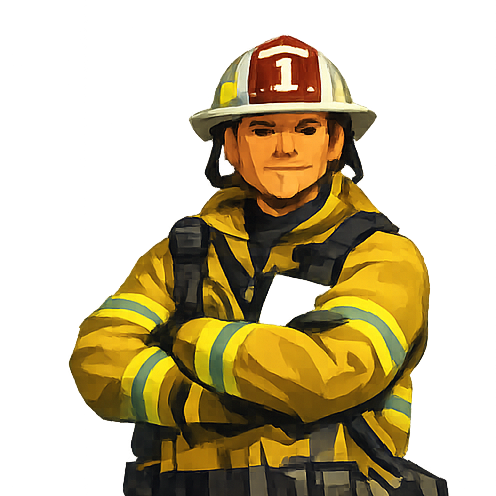
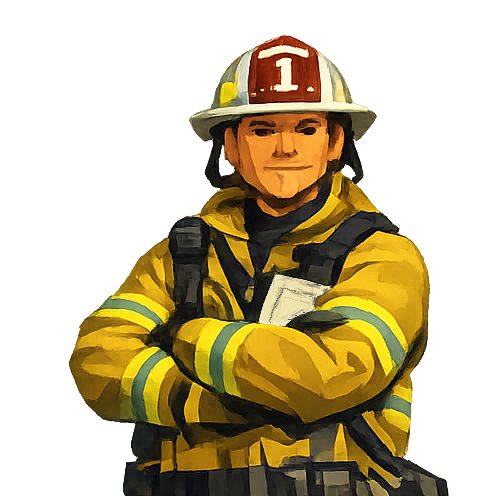
game speed and incidence response tweaks

Changed region(s): [[0.5141, 0.5444, 0.6653, 0.6653]]

diff --git a/src/systems/fire/rendering/fireFxRuntime.ts b/src/systems/fire/rendering/fireFxRuntime.ts
@@ -68,6 +68,7 @@ import {
   updateFrontCorridorSlotActivation
 } from "./fireRenderAnalysisState.js";
 import {
+  accumulateSmokeEmission,
   clamp,
   fract,
   getVisualWindResponse,
@@ -917,6 +918,7 @@ export const createThreeTestFireFx = (
   let smokeAnimationTimeMs = 0;
   const analysisState = createInitialFireRenderAnalysisState();
   let tileSmokeSpawnAccum = new Float32Array(0);
+  let clusterSmokeSpawnAccum = new Float32Array(0);
   let smokeSpawnCursor = 0;
   let smokeSpawnSequence = 0;
   const smokeParticleActive = new Uint8Array(SMOKE_MAX_INSTANCES);
@@ -1003,6 +1005,7 @@ export const createThreeTestFireFx = (
     resetFireRenderAnalysisVisualState(analysisState);
     audioClusterSnapshots.length = 0;
     tileSmokeSpawnAccum.fill(0);
+    clusterSmokeSpawnAccum.fill(0);
     visualsCleared = true;
   };
 
@@ -1073,6 +1076,10 @@ export const createThreeTestFireFx = (
     ensureFireRenderAnalysisState(analysisState, cols, rows);
     if (tileSmokeSpawnAccum.length !== count) {
       tileSmokeSpawnAccum = new Float32Array(count);
+    }
+    const clusterAnchorCount = count * CLUSTER_PLUME_MAX_PER_CLUSTER;
+    if (clusterSmokeSpawnAccum.length !== clusterAnchorCount) {
+      clusterSmokeSpawnAccum = new Float32Array(clusterAnchorCount);
     }
   };
 
@@ -1951,7 +1958,7 @@ export const createThreeTestFireFx = (
           terrainMaxZ
         );
         const clusterSmokeSourceY = heightAtFireWorldPosition(anchorX, anchorZ, cluster.baseY) + clusterSmokeLift;
-        const spawnCount = clamp(
+        const emissionRate = clamp(
           Math.round(
             (1.4 + cluster.intensity * 4.2 + cluster.tileCount * 0.06 + clusterFront01 * 2.2) *
               effectiveSmokeBudgetScale *
@@ -1960,6 +1967,15 @@ export const createThreeTestFireFx = (
           1,
           8
         );
+        const accumulatorIdx = cluster.sourceIdx * CLUSTER_PLUME_MAX_PER_CLUSTER + anchor;
+        const emission = accumulateSmokeEmission(
+          clusterSmokeSpawnAccum[accumulatorIdx] ?? 0,
+          emissionRate,
+          smokeDeltaSeconds,
+          Math.min(8, smokeSpawnFrameCap - smokeSpawnsThisFrame)
+        );
+        clusterSmokeSpawnAccum[accumulatorIdx] = emission.carry;
+        const spawnCount = emission.spawnCount;
         for (let spawn = 0; spawn < spawnCount && smokeSpawnsThisFrame < smokeSpawnFrameCap; spawn += 1) {
           const r1 = hash1(a1 * 17.0 + spawn * 1.31 + smokeTimeSeconds * 0.19);
           const r2 = hash1(a2 * 23.0 + spawn * 2.17 + 7.0);
@@ -3282,11 +3298,14 @@ export const createThreeTestFireFx = (
             smokeDensityScale *
             frontSmokeScale *
             SMOKE_EMISSION_DENSITY_SCALE;
-          let spawnCarry = (tileSmokeSpawnAccum[idx] ?? 0) + emissionRate * smokeDeltaSeconds;
-          const spawnCount = Math.min(9, Math.floor(spawnCarry));
-          spawnCarry -= spawnCount;
-          tileSmokeSpawnAccum[idx] = spawnCarry;
-          const spawnLimit = Math.min(spawnCount, smokeSpawnFrameCap - smokeSpawnsThisFrame);
+          const emission = accumulateSmokeEmission(
+            tileSmokeSpawnAccum[idx] ?? 0,
+            emissionRate,
+            smokeDeltaSeconds,
+            9
+          );
+          tileSmokeSpawnAccum[idx] = emission.carry;
+          const spawnLimit = Math.min(emission.spawnCount, smokeSpawnFrameCap - smokeSpawnsThisFrame);
           const plumeRadius = sampleFootprint * (0.14 + smokeDrive * 0.58);
           const baseSize = tileSpan * (0.9 + smokeDrive * 1.28);
           for (let spawn = 0; spawn < spawnLimit; spawn += 1) {

diff --git a/src/sim/index.ts b/src/sim/index.ts
@@ -94,8 +94,7 @@ import { applyFireActivityMetrics } from "../systems/fire/sim/fireActivityState.
 import {
   resetFireFrontLineage,
   stepFireDetection,
-  stepWatchTowerConstruction,
-  type FireDetectionStepResult
+  stepWatchTowerConstruction
 } from "../systems/fire/sim/fireDetection.js";
 import type { FireDetectionReport } from "../core/types.js";
 import { stepEvacuations } from "../systems/evacuation/sim/evacuationRuntime.js";
@@ -1130,6 +1129,21 @@ export function stepSim(
 
   let activeFires = state.lastActiveFires;
   let fireActivityState = state.fireActivityState;
+  let detectedIncidentThisStep = false;
+  const pollFireDetection = (detectionDayDelta: number): boolean => {
+    if (!hasFireActivity(state)) {
+      return false;
+    }
+    const detection = stepFireDetection(state, detectionDayDelta);
+    detection.notificationReports.forEach(emitFireFrontNotification);
+    const primaryAlertReport = detection.alertReports[0] ?? detection.alertReport;
+    if (!primaryAlertReport) {
+      return false;
+    }
+    handleDetectedFireIncident(state, primaryAlertReport, previousSpeedIndex, previousSliderValue);
+    detectedIncidentThisStep = true;
+    return true;
+  };
   state.firePerfSubsteps = 0;
   state.firePerfSimulatedDays = 0;
   state.firePerfDeferredDays = 0;
@@ -1201,6 +1215,15 @@ export function stepSim(
       fireSubsteps += 1;
       fireDaysSimulated += simDayDelta;
       state.fireSimAccumulator = Math.max(0, state.fireSimAccumulator - simDelta);
+      state.lastActiveFires = activeFires;
+      if (pollFireDetection(simDayDelta)) {
+        state.fireSimAccumulator = 0;
+        remaining = 0;
+        break;
+      }
+    }
+    if (!detectedIncidentThisStep && hasFireActivity(state) && pollFireDetection(dayDelta)) {
+      state.fireSimAccumulator = 0;
     }
     state.firePerfSubsteps = fireSubsteps;
     state.firePerfSimulatedDays = fireDaysSimulated;
@@ -1218,25 +1241,14 @@ export function stepSim(
     applyFireActivityMetrics(state, 0);
   }
   state.lastActiveFires = activeFires;
-  let fireDetection: FireDetectionStepResult = {
-    alertReport: null,
-    alertReports: [],
-    notificationReports: [],
-    activeReportCount: 0
-  };
-  if (hasFireActivity(state)) {
-    fireDetection = stepFireDetection(state, dayDelta);
-  } else {
+  if (!hasFireActivity(state)) {
     resetFireFrontLineage(state);
   }
-  fireDetection.notificationReports.forEach(emitFireFrontNotification);
-  const primaryAlertReport = fireDetection.alertReports[0] ?? fireDetection.alertReport;
-  if (primaryAlertReport) {
-    if (handleDetectedFireIncident(state, primaryAlertReport, previousSpeedIndex, previousSliderValue)) {
-      stepParticles(state, effects, delta);
-      return;
-    }
-  } else if (state.simTimeMode === "incident" && state.fireActivityState === "idle") {
+  if (detectedIncidentThisStep && state.paused) {
+    stepParticles(state, effects, delta);
+    return;
+  }
+  if (!detectedIncidentThisStep && state.simTimeMode === "incident" && state.fireActivityState === "idle") {
     exitIncidentMode(state);
   }
 

diff --git a/src/systems/units/controllers/rosterController.ts b/src/systems/units/controllers/rosterController.ts
@@ -12,7 +12,12 @@ import { FIRST_NAMES, LAST_NAMES, TRUCK_PREFIX } from "../constants/runtimeConst
 import { clamp } from "../utils/unitMath.js";
 import { getRosterFirefighter, getRosterTruck, getRosterUnit } from "../utils/unitLookup.js";
 import { buildUnitDerivedStats, createTraining } from "../utils/unitStats.js";
-import { assignRosterTruckToMostEmptySquad, ensureDefaultSquads } from "./squadController.js";
+import {
+  assignRosterTruckToMostEmptySquad,
+  assignRosterTruckToSquad,
+  ensureDefaultSquads,
+  getSquadById
+} from "./squadController.js";
 
 const unassignRosterFirefighter = (state: WorldState, firefighter: RosterUnit): void => {
   if (firefighter.assignedTruckId === null) {
@@ -106,11 +111,13 @@ export function seedStartingRoster(state: WorldState, rng: RNG, responseTeamCoun
     1,
     Number.isFinite(responseTeamCount) ? Math.floor(responseTeamCount) : 1
   );
+  ensureDefaultSquads(state);
+  const startingSquadId = state.squads[0]?.id ?? null;
   for (let teamIndex = 0; teamIndex < normalizedTeamCount; teamIndex += 1) {
     for (let crewIndex = 0; crewIndex < STARTING_RESPONSE_TEAM_CREW_COUNT; crewIndex += 1) {
       recruitUnit(state, rng, "firefighter", true);
     }
-    recruitUnit(state, rng, "truck", true);
+    recruitUnit(state, rng, "truck", true, startingSquadId);
   }
   const trucks = state.roster.filter((unit) => unit.kind === "truck");
   const firefighters = state.roster.filter((unit) => unit.kind === "firefighter");
@@ -132,7 +139,13 @@ export function seedStartingRoster(state: WorldState, rng: RNG, responseTeamCoun
   ensureDefaultSquads(state);
 }
 
-export function recruitUnit(state: WorldState, rng: RNG, kind: UnitKind, free = false): boolean {
+export function recruitUnit(
+  state: WorldState,
+  rng: RNG,
+  kind: UnitKind,
+  free = false,
+  preferredSquadId: number | null = null
+): boolean {
   if (state.phase !== "maintenance" && !free) {
     setStatus(state, "Recruitment is only available during winter.");
     return false;
@@ -159,7 +172,10 @@ export function recruitUnit(state: WorldState, rng: RNG, kind: UnitKind, free = 
   let assignmentLabel = "";
   if (entry.kind === "truck") {
     ensureDefaultSquads(state);
-    const squad = assignRosterTruckToMostEmptySquad(state, entry.id);
+    const preferredSquad = getSquadById(state, preferredSquadId);
+    const squad = preferredSquad && assignRosterTruckToSquad(state, entry.id, preferredSquad.id)
+      ? preferredSquad
+      : assignRosterTruckToMostEmptySquad(state, entry.id);
     assignmentLabel = squad ? ` Assigned to ${squad.name}.` : " No squad vehicle slots are open.";
   } else {
     const truck = assignRosterFirefighterToMostEmptyTruck(state, entry);

diff --git a/src/systems/fire/rendering/fireRenderMath.ts b/src/systems/fire/rendering/fireRenderMath.ts
@@ -24,6 +24,23 @@ export const smoothApproach = (
   return current + (target - current) * k;
 };
 
+export const accumulateSmokeEmission = (
+  carry: number,
+  emissionsPerSecond: number,
+  deltaSeconds: number,
+  maxSpawns: number
+): { carry: number; spawnCount: number } => {
+  const safeCarry = Number.isFinite(carry) ? clamp(carry, 0, 0.999999) : 0;
+  const accumulated =
+    safeCarry + Math.max(0, Number.isFinite(emissionsPerSecond) ? emissionsPerSecond : 0) *
+      Math.max(0, Number.isFinite(deltaSeconds) ? deltaSeconds : 0);
+  const availableSpawns = Math.floor(accumulated + 1e-9);
+  return {
+    carry: Math.max(0, accumulated - availableSpawns),
+    spawnCount: Math.min(Math.max(0, Math.floor(maxSpawns)), availableSpawns)
+  };
+};
+
 export const normalizeXZ = (x: number, z: number): { x: number; z: number } => {
   const length = Math.hypot(x, z);
   if (length <= 1e-5) {

diff --git a/src/systems/fire/sim/fireWeather.ts b/src/systems/fire/sim/fireWeather.ts
@@ -168,8 +168,11 @@ export const getBurnoutFactorForRisk = (climateRisk: number): number =>
     : 0;
 
 export const getAdaptiveFireSubstepMax = (fireActivityState: FireActivityState, climateRisk: number): number => {
+  if (climateRisk >= 0.4) {
+    return 0.125;
+  }
   if (fireActivityState === "burning") {
-    return climateRisk >= 0.4 ? 0.125 : 0.25;
+    return 0.25;
   }
   return 0.5;
 };

diff --git a/docs/GAME_DESIGN_REFERENCE.md b/docs/GAME_DESIGN_REFERENCE.md
@@ -193,7 +193,7 @@ Command Roster
 - The roster includes a male/female portrait toggle; random callsigns use first-name pools matching the selected toggle.
 - Chief modifiers are shown for budget, speed, power, containment, firebreak cost, and approval retention.
 - Campaign difficulty is a clearly selectable, remembered New Game setting with four data-driven levels: Ember, Blaze (default), Firestorm, and Inferno. The selected Chief portrait uses a dedicated procedural GPU flame field and CPU fallback derived from the title screen's IQ noise/fBm approach, behind transparent Chief art and clipped to the rounded picture frame. A uniform near-black backdrop uses the title flame's red-to-white heat palette. Ember disables the flame field and presents a clearly readable field of slow, long-lived sparks over a faint lower glow. Blaze, Firestorm, and Inferno use 4/6/8 detailed emitters plus an increasingly strong continuous wall layer, occupying approximately 50%/75%/100% of frame height; Inferno's full wall prevents the emitters from reading as separate jets. Every profile prewarms its spark population so changing difficulty does not produce a temporarily empty portrait, while higher levels progressively increase spark density and rise speed. The title screen retains its original glyph-masked renderer unchanged. This presentation cue does not add gameplay effects: difficulty changes only the initial budget and starting response-team count; fire, weather, suppression, later-year economy, scoring, and unit performance remain unchanged.
-- The normal starting baseline is two response teams, and each complete team contains one truck plus two firefighters. Difficulty produces Ember 4 teams, Blaze 3, Firestorm 2, and Inferno 1, with one complete team retained as the valid-campaign minimum.
+- The normal starting baseline is two response teams, and each complete team contains one truck plus two firefighters. Difficulty produces Ember 4 teams, Blaze 3, Firestorm 2, and Inferno 1, with one complete team retained as the valid-campaign minimum. All difficulty-granted starting trucks belong to the first HQ squad so the complete opening roster can be dispatched as one command group; the other HQ squad slots begin empty.
 - Starting budget resolves from the normal base through the difficulty multiplier first (125%, 100%, 85%, or 70%), then through the existing selected-Chief budget modifier without duplicating or changing Chief rules.
 - Unit economy + stats (recruit costs, training cost/cap/gains, unit speed/power/radius, truck capacity/board radius, tether distance, formation spacing, movement cost/slope factors, unit loss fire threshold).
 - Firebreak cost per tile.
@@ -231,7 +231,7 @@ Fire
 Other
 - Career/time pacing (career years, days/sec, phase durations, and annual growth-event timing).
 - Time controls support persisted preset-button mode and an experimental strategic-time slider spanning 0x-20x in 0.25x steps. Incident mode always uses the dedicated slow incident presets, even when strategic time uses the slider; entering an incident preserves the strategic slider value and leaving restores it. `Advance to Next Event` temporarily forces strategic time to 20x before restoring the prior value.
-- High-speed strategic time must still detect fire events immediately: when calendar advancement seeds or discovers a detected fire, the sim stops Advance to Next Event, preserves strategic controls for restoration, and enters dedicated slow incident time before any large high-speed fire step can burn past the opening response window. `Pause on Fire` controls only whether that incident transition also pauses; disabling it keeps incident time running instead of retaining strategic speed. Strategic fast time is capped at an effective 20x and may be further limited near fire-eligible weather or active fire work by the fire kernel's idle adaptive window. Fire catch-up work is additionally bounded by a per-frame substep budget and may carry deferred fire days across frames so high-speed fire seasons stay responsive instead of processing every backlog substep in one frame. Fire simulation remains tied to simulation speed, but fire FX should interpolate and smooth between previous/current fire snapshots so the visible front does not snap only on fire-kernel ticks. Vehicle movement follows the effective game-speed movement step even when active-fire work applies a lower fire/runtime step, uses the same previous/current visual interpolation contract, and perf telemetry should distinguish requested, effective, movement, and actually applied speed when lower fire/runtime caps are active. The 3D runtime should only hold accelerated simulation for immediate terrain geometry, debug, or structure sync; vegetation, surface-color, and fire-visual batches can defer without stopping movement. Spring settlement growth should replay precomputed road paths and refresh road/structure visuals without forcing a full base terrain mesh rebuild. Fire, annual report, and rain pause behavior can be toggled independently from event source toggles. Run-only diagnostics may temporarily hold simulation and camera motion to capture median GPU sensitivity for terrain, vegetation, structures, fire FX, water, and shadows; this capture is non-authoritative and must restore presentation state without changing gameplay or rendering defaults.
+- High-speed strategic time must still detect fire events immediately: when calendar advancement seeds or discovers a detected fire, the sim stops Advance to Next Event, preserves strategic controls for restoration, and enters dedicated slow incident time before any large high-speed fire step can burn past the opening response window. During fire-eligible high-risk weather, idle and active fire work use the same bounded internal detection cadence; detection is polled after each fire substep, and the first alert truncates the accelerated batch and discards its remaining strategic fire backlog so resuming cannot replay pre-alert fast-time spread. `Pause on Fire` controls only whether that incident transition also pauses; disabling it keeps incident time running instead of retaining strategic speed. Strategic fast time is capped at an effective 20x and may be further limited near fire-eligible weather or active fire work by the fire kernel's idle adaptive window. Fire catch-up work is additionally bounded by a per-frame substep budget and may carry deferred fire days across frames only while no incident alert interrupts the batch, so high-speed fire seasons stay responsive instead of processing every backlog substep in one frame. Fire simulation remains tied to simulation speed, but fire FX should interpolate and smooth between previous/current fire snapshots so the visible front does not snap only on fire-kernel ticks. Smoke particle movement, ageing, and both tile and cluster-plume emission accumulate from the same game-speed-scaled visual time, so changing speed changes plume evolution without causing slow-time density buildup from real-time emission. Vehicle movement follows the effective game-speed movement step even when active-fire work applies a lower fire/runtime step, uses the same previous/current visual interpolation contract, and perf telemetry should distinguish requested, effective, movement, and actually applied speed when lower fire/runtime caps are active. The 3D runtime should only hold accelerated simulation for immediate terrain geometry, debug, or structure sync; vegetation, surface-color, and fire-visual batches can defer without stopping movement. Spring settlement growth should replay precomputed road paths and refresh road/structure visuals without forcing a full base terrain mesh rebuild. Fire, annual report, and rain pause behavior can be toggled independently from event source toggles. Run-only diagnostics may temporarily hold simulation and camera motion to capture median GPU sensitivity for terrain, vegetation, structures, fire FX, water, and shadows; this capture is non-authoritative and must restore presentation state without changing gameplay or rendering defaults.
 - Economy baselines (base budget, approval min, hectares per tile, initial approval).
 - Progression toggles (available upgrades list).
 - Debug/perf toggles (simPerf, renderTrees/effects), unlimited money.

diff --git a/work_queue.md b/work_queue.md
@@ -1,3 +1,44 @@
+TSK-0213: Stop accelerated fire work at the detection boundary
+
+Type: bug
+
+Why: At 20x, fire detection ran only after an entire strategic fire batch. A detected incident could pause with hundreds of burned tiles and an already-burning HQ, while the early return deferred the HQ-loss check until the first resumed incident tick.
+
+Done when:
+- [x] Fire-eligible high-risk work uses bounded internal slices before a newly seeded or hidden fire can consume the full strategic batch.
+- [x] Detection runs after every fire substep and the first alert stops remaining accelerated fire work.
+- [x] Strategic fire backlog is cleared at incident entry so unpausing cannot replay pre-alert fast-time spread.
+- [x] The 20x season-entry regression pauses with the HQ safe, no burned tiles, and no deferred fire days; TypeScript, build, fire, and queue validation pass.
+
+Touchpoints: `src/sim/index.ts`, `src/systems/fire/sim/fireWeather.ts`, `scripts/fire-regression.mjs`, design/deprecation/queue records
+
+Constraints: preserve fire detection confidence and delay rules, incident-speed resolution, Pause on Fire preference semantics, fire equations, save data, and simulation-to-domain dependency direction.
+
+Notes: Before the fix, the deterministic high-speed fixture paused at 162 active fires and 208 burned tiles. Substep-boundary detection now pauses the same fixture at 9 active fires, zero burned tiles, a safe HQ, and zero deferred fire backlog. Evidence is automated and source-based; the supplied screenshot confirms the original paused-after-damage symptom but not event timing.
+
+Status: done
+
+TSK-0212: Scale cluster smoke emission with game speed
+
+Type: bug
+
+Why: Cluster plumes emitted a fixed smoke batch on every render rebuild while existing particles moved and aged using game-speed-scaled time, causing smoke to become extremely dense during slow incidents.
+
+Done when:
+- [x] Cluster-plume anchors accumulate particles from the same scaled smoke delta used for movement and ageing.
+- [x] Fractional carry makes total emission independent of render rebuild cadence while adaptive per-frame caps remain intact.
+- [x] Tile smoke uses the shared rate accumulator without changing its existing scaled-time contract.
+- [x] TypeScript, build, renderer regression, and queue validation pass.
+- [ ] A supplied recording or supported Browser session confirms comparable plume density across speed changes in live motion.
+
+Touchpoints: `src/systems/fire/rendering/fireFxRuntime.ts`, `src/systems/fire/rendering/fireRenderMath.ts`, `scripts/render-performance-regression.mjs`, design/queue records
+
+Constraints: preserve fire simulation, smoke motion/lifetimes, adaptive render caps, draw-call structure, save data, and simulation-to-render dependency direction.
+
+Notes: Source inspection found tile emitters already used scaled smoke time while cluster emitters spawned per rebuild. Automated coverage compares equal scaled durations at different rebuild cadences and verifies proportional slow-speed output. The supplied screenshot is static evidence of the density symptom; live timing validation remains capture-based because the current VS Code surface cannot inspect localhost.
+
+Status: done
+
 TSK-0211: Add four-level campaign difficulty
 
 Type: feature
@@ -7,6 +48,7 @@ Why: New campaigns always used one fixed starting budget and one fixed response 
 Done when:
 - [x] New Game exposes Ember, Blaze, Firestorm, and Inferno from one data-driven catalogue, with Blaze as the legacy/default fallback and the last valid choice remembered.
 - [x] Difficulty derives the initial budget before the unchanged Chief budget modifier and produces 4, 3, 2, or 1 complete response teams from the accepted two-team baseline.
+- [x] All difficulty-granted starting trucks are assigned to the first HQ squad, while the remaining squad slots start empty and later recruitment retains its existing assignment policy.
 - [x] Campaign configuration and state retain the selected difficulty, while missing or invalid persisted values sanitize to Blaze.
 - [x] The selected Chief portrait uses a dedicated procedural GPU field and CPU fallback derived from the title noise/fBm approach on a fixed near-black canvas: Ember is a prewarmed, clearly visible field of slow sparks over a faint glow, while 4/6/8 detailed emitters blend into progressively stronger 50%/75%/100% flame walls for Blaze through Inferno. Every profile prewarms its sparks, with density and rise speed increasing by difficulty without changing the title screen.
 - [x] TypeScript/build, focused campaign-difficulty persistence/resource coverage, unit composition/assignment coverage, and queue validation pass.
@@ -16,7 +58,7 @@ Touchpoints: `src/systems/campaign/`, New Game configuration UI/persistence, `sr
 
 Constraints: difficulty affects only starting budget and complete starting response teams; preserve unlimited-money behavior, existing Chief modifiers, terrain share codes, later-year economy, scoring, fire, weather, suppression, and unit performance.
 
-Notes: Implemented source-first in the current VS Code surface using supplied New Game screenshots, concept art, shader reference, and the annotated pane capture as static evidence. Canvas scaling exposed rectangular bounds, UV/noise scaling distorted the field, and raw multi-glyph rendering exposed vertical nearest-band seams plus the reference shader's early horizontal heat cutoff. The final portrait path isolates a dedicated procedural renderer: Ember has no flame field, while higher profiles soft-union overlapping emitters with an increasing continuous wall layer and use the title shader's heat-color curve. Automated evidence covers definition order, defaults, persistence migration, budget ordering, team-count clamping, deterministic complete-team seeding, crew assignment, squad ownership, exact glow/wall/emitter/height/heat/spark profiles, fixed CPU dimensions, occupied-height bands, Inferno horizontal coverage, and monotonic color/alpha/activity metrics. Live motion and final appearance still require refreshed captures because this surface cannot inspect localhost.
+Notes: Implemented source-first in the current VS Code surface using supplied New Game screenshots, concept art, shader reference, and the annotated pane capture as static evidence. Canvas scaling exposed rectangular bounds, UV/noise scaling distorted the field, and raw multi-glyph rendering exposed vertical nearest-band seams plus the reference shader's early horizontal heat cutoff. The final portrait path isolates a dedicated procedural renderer: Ember has no flame field, while higher profiles soft-union overlapping emitters with an increasing continuous wall layer and use the title shader's heat-color curve. Campaign seeding places every difficulty-granted truck in the first HQ squad without changing later recruitment. Automated evidence covers definition order, defaults, persistence migration, budget ordering, team-count clamping, deterministic complete-team seeding, crew assignment, shared opening-squad ownership, exact glow/wall/emitter/height/heat/spark profiles, fixed CPU dimensions, occupied-height bands, Inferno horizontal coverage, and monotonic color/alpha/activity metrics. Live motion and final appearance still require refreshed captures because this surface cannot inspect localhost.
 
 Status: done
 

diff --git a/docs/deprecations.md b/docs/deprecations.md
@@ -1,5 +1,46 @@
 # Deprecations
 
+## End-of-Batch Fire Incident Detection
+
+Status: Deprecated as of August 14, 2026.
+
+- Fire detection no longer waits until every internal substep in an accelerated strategic batch has committed.
+- Fire-eligible high-risk work now uses bounded detection slices and polls after each slice.
+- The first incident alert stops the batch and clears its remaining strategic fire backlog before pause or incident-speed continuation.
+
+Migration guidance:
+
+1. Keep fire-event detection inside the fire substep boundary rather than after the outer strategic step.
+2. Do not carry pre-alert accelerated fire backlog into incident mode.
+3. Preserve detection confidence and delay rules; the interruption occurs when those rules first emit an alert.
+
+## Frame-Based Cluster Smoke Emission
+
+Status: Deprecated as of August 14, 2026.
+
+- Cluster-plume smoke no longer emits a fixed particle batch on every fire-render rebuild.
+- Cluster anchors now accumulate emission from the same game-speed-scaled visual delta used for smoke movement and ageing.
+
+Migration guidance:
+
+1. Express fire-smoke emission as particles per scaled visual second.
+2. Retain fractional emission carry between render rebuilds.
+3. Keep adaptive frame caps as overload protection rather than as the primary emission clock.
+
+## Distributed Campaign Starting Squads
+
+Status: Deprecated as of August 14, 2026.
+
+- Difficulty-granted starting trucks are no longer distributed across the emptiest HQ squad slots during campaign seeding.
+- Every complete starting response team now belongs to the first HQ squad, allowing the opening roster to deploy as one command group.
+- Ordinary post-start truck recruitment retains the existing emptiest-squad assignment policy.
+
+Migration guidance:
+
+1. Supply the first HQ squad explicitly while seeding campaign trucks.
+2. Keep later recruitment and manual winter reassignment behavior unchanged.
+3. Preserve reciprocal firefighter-to-truck crew assignment within each response team.
+
 ## Raw Multi-Glyph Chief Portrait Flame Field
 
 Status: Deprecated as of August 14, 2026.
